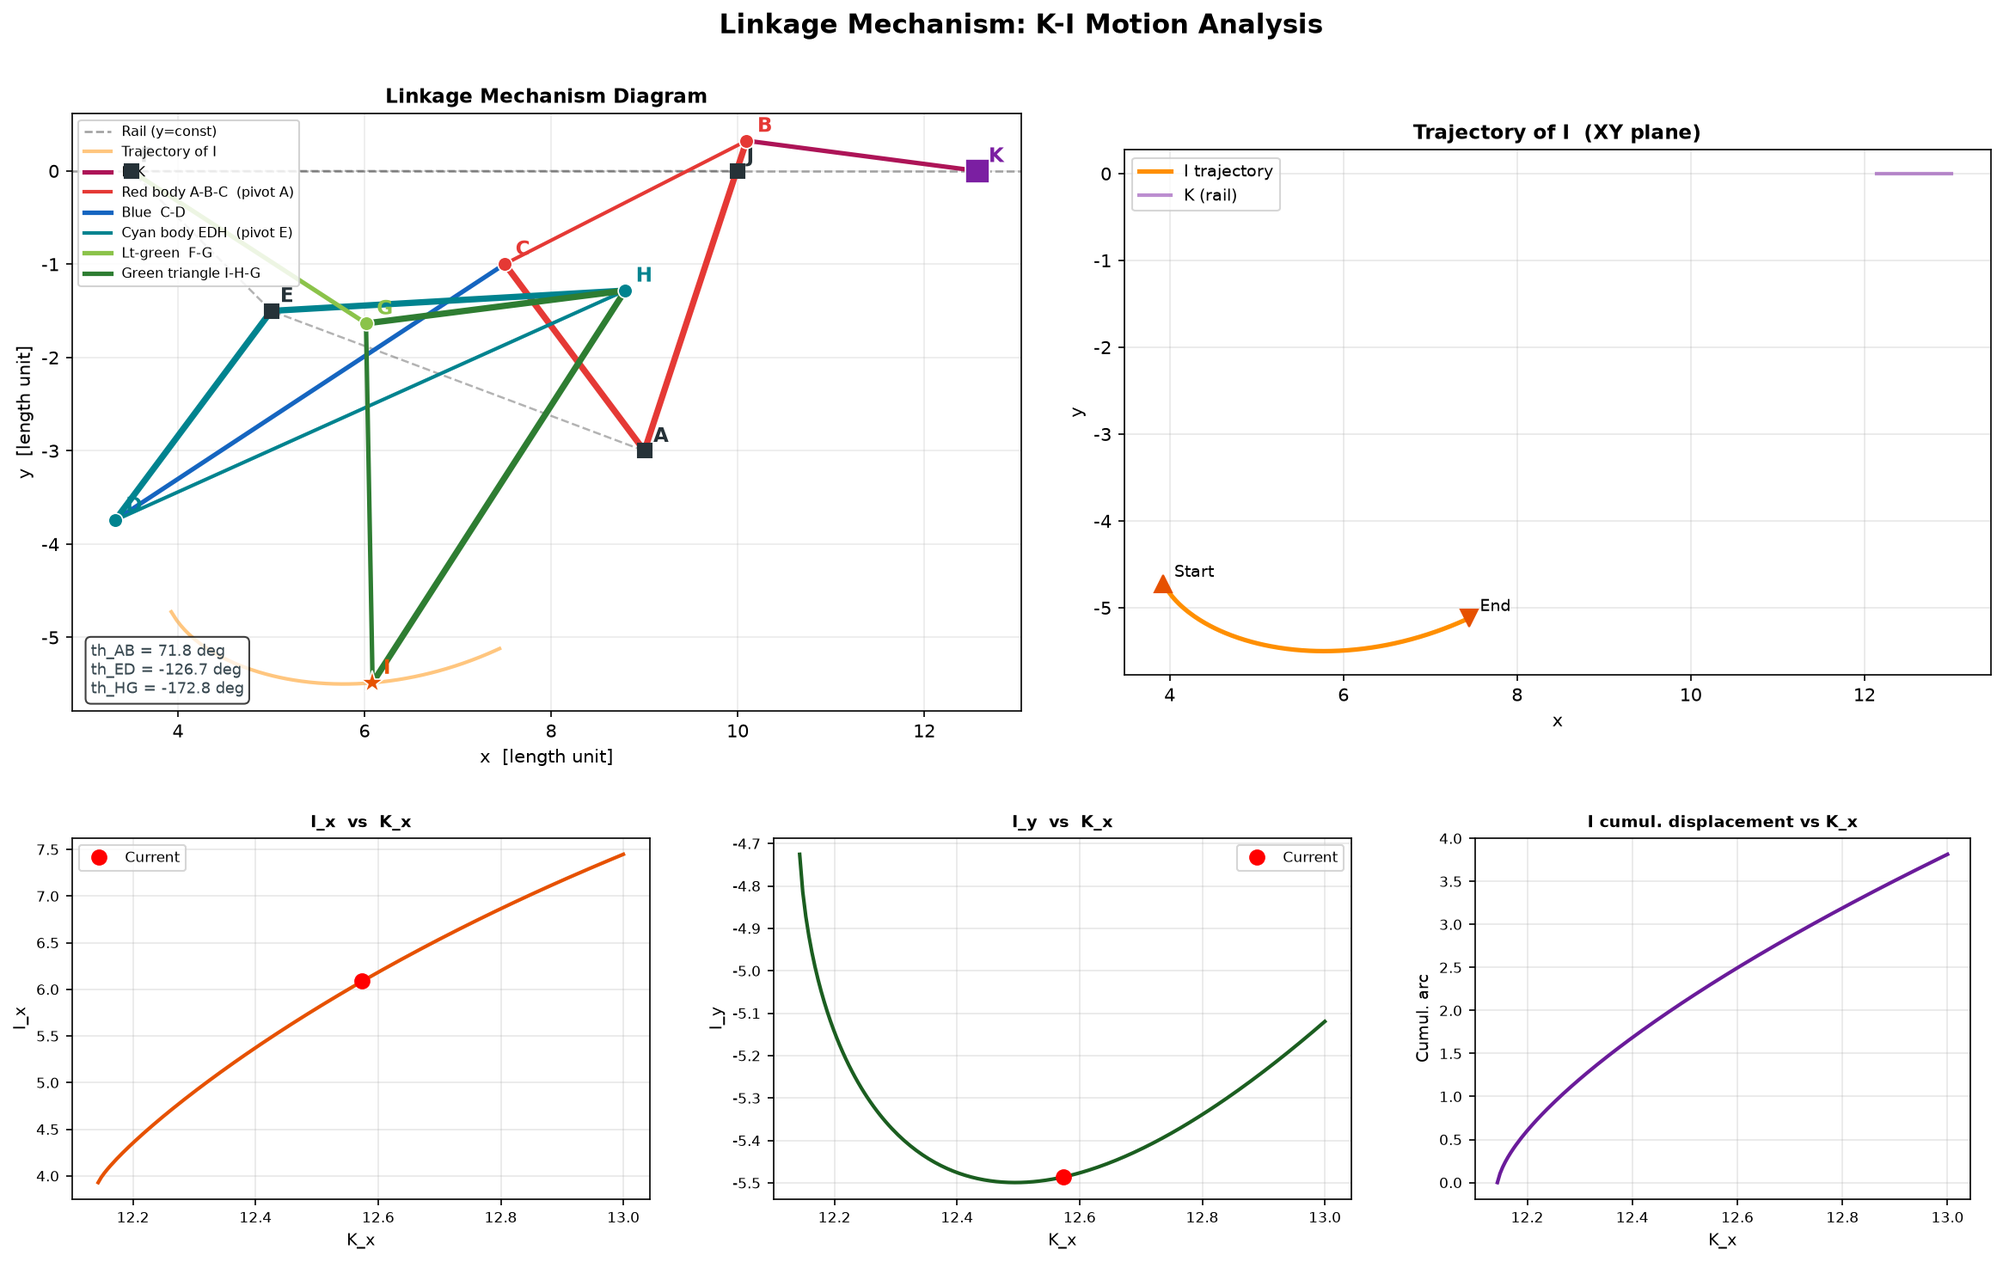
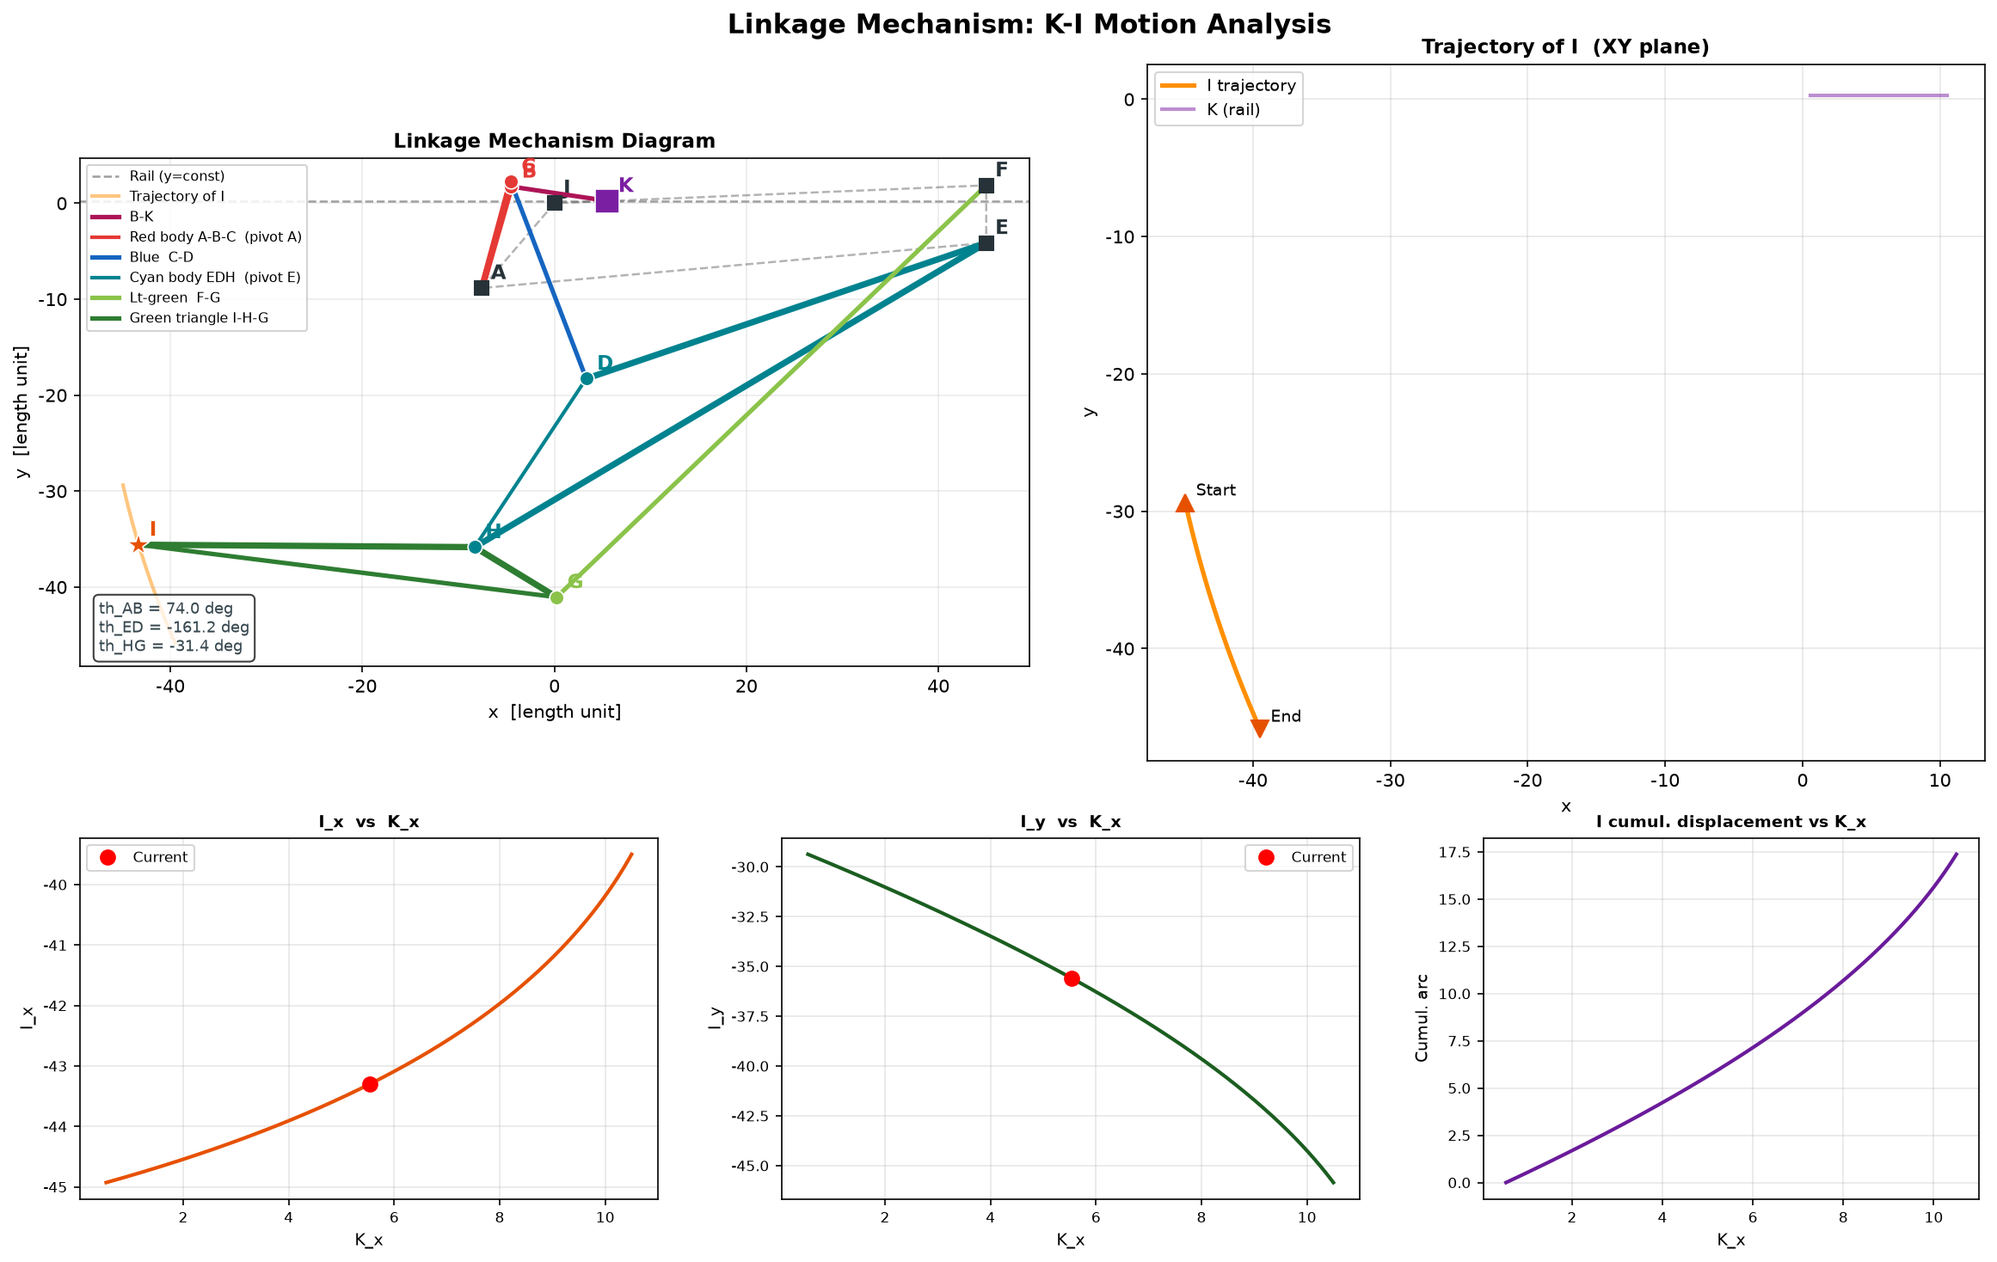
Calibrate angles so I outputs to the left; keep measured fixed-frame coords
- Retain remote-measured fixed points: A=(-7.55,-8.83), E=(44.98,-4.13),
  F=(44.98,1.87), K_y=0.25, K_x 0.54–10.5, L_KB/L_AB/L_AC/α_BAC
- Set α_GHI=211 deg so I is directed leftward (negative x) matching image
- Added note to each placeholder parameter indicating it needs measurement
- SIGNS['D']=-1 (lower intersection for D), SIGNS['G']=+1

Parameters still needing physical measurement: L_CD, L_ED, L_EH, α_DEH,
L_FG, L_GH, L_HI, α_GHI.

Claude-Session: https://claude.ai/code/session_01QfDrwZu6SNYeUuxUm5iJGh

diff --git a/linkage_analysis.py b/linkage_analysis.py
@@ -14,16 +14,16 @@ Mechanism topology (K → I):
     C
     │  [blue link C-D, length L_CD]
     ▼
-    D  ←── also constrained: D is an arm of the CYAN rigid body (pivot E)
+    D  ←── D is an arm of the CYAN rigid body (pivot E, fixed)
     │        cyan body EDH:  E(fixed pivot) – D(arm, L_ED) – H(arm, L_EH)
     │        α_DEH = fixed angle between ED and EH on the cyan body
     ▼
     H (on cyan body, also a vertex of the green triangle)
     │
     │  green rigid triangle I-H-G:
-    │    G is also constrained by light-green link F-G  (L_FG, F fixed)
+    │    G also constrained by light-green link F-G  (L_FG, F fixed)
     │    |GH| = L_GH (rigid triangle side)
-    │    I is at (L_HI, α_GHI from H towards I) on the triangle
+    │    I at angle α_GHI from HG direction (on green body)
     ▼
     I  (output point)
 
@@ -31,12 +31,12 @@ Geometric quantities required:
   Fixed coords : A, E, F  (all in fixed frame JAEF)
   Link lengths : L_KB, L_AB, L_AC, L_CD
                  L_ED, L_EH          (cyan rigid body arms from E)
-                 L_FG                (light-green link)
+                 L_FG                (light-green link F-G)
                  L_GH                (green triangle side G-H)
                  L_HI                (green triangle side H-I)
   Angles       : α_BAC  – angle from AB to AC on red body
                  α_DEH  – angle from ED to EH on cyan body
-                 α_GHI  – angle from HG to HI direction on green body
+                 α_GHI  – angle from HG to HI on green body
 
 Usage:
   python linkage_analysis.py           # interactive (drag slider)
@@ -58,47 +58,50 @@ matplotlib.rcParams['axes.unicode_minus'] = False
 # ══════════════════════════════════════════════════════════════════════
 
 P = {
-    # ── Fixed frame JAEF pivot coords (x, y) ──────────────────────
-    'J': np.array([10.0,  0.0]),   # slider rail anchor
-    'A': np.array([ 9.0, -3.0]),   # red body fixed pivot
-    'E': np.array([ 5.0, -1.5]),   # cyan body fixed pivot
-    'F': np.array([ 3.5,  0.0]),   # light-green link fixed pivot
+    # ── Fixed frame JAEF pivot coords (x, y) ──────────────────────────
+    'J': np.array([  0.00,   0.00]),   # slider rail anchor (measured)
+    'A': np.array([ -7.55,  -8.83]),   # red body fixed pivot (measured)
+    'E': np.array([ 44.98,  -4.13]),   # cyan body fixed pivot (measured)
+    'F': np.array([ 44.98,   1.87]),   # light-green link fixed pivot (measured)
 
-    # ── Slider K rail (horizontal line y = K_y) ───────────────────
-    'K_y'    :  0.0,
-    'K_x_min': 10.5,   # stroke start (input min)
-    'K_x_max': 13.0,   # stroke end   (input max)
+    # ── Slider K rail (horizontal line y = K_y) ───────────────────────
+    'K_y'    :  0.25,
+    'K_x_min':  0.54,   # stroke start (input min, measured)
+    'K_x_max': 10.50,   # stroke end   (input max, measured)
 
-    # ── Red rigid body (pivot A) ──────────────────────────────────
-    'L_KB'  : 2.5,     # K – B
-    'L_AB'  : 3.5,     # A – B
-    'L_AC'  : 2.5,     # A – C
-    'α_BAC' : np.radians(55),   # angle from AB to AC on red body [rad]
+    # ── Red rigid body (pivot A) ──────────────────────────────────────
+    'L_KB'  : 10.15,   # K – B (measured)
+    'L_AB'  : 11.00,   # A – B (measured)
+    'L_AC'  : 11.50,   # A – C (measured)
+    'α_BAC' : np.radians(0.9201375817),   # ∠BAC on red body (measured) [rad]
 
-    # ── Blue link ─────────────────────────────────────────────────
-    'L_CD'  : 5.0,     # C – D
+    # ── Blue link C-D ─────────────────────────────────────────────────
+    'L_CD'  : 22.00,   # C – D  ← measure and update
 
-    # ── Cyan rigid body EDH (pivot E) ────────────────────────────
-    # E is fixed pivot; D and H are arms on the same rigid body
-    'L_ED'  : 2.8,     # E – D  arm length
-    'L_EH'  : 3.8,     # E – H  arm length
-    'α_DEH' : np.radians(130),  # angle from ED to EH (on cyan body) [rad]
+    # ── Cyan rigid body EDH (pivot E) ─────────────────────────────────
+    # E is the FIXED pivot; D and H are both arms on this one rigid body.
+    # As D is pushed by the blue link, the whole body rotates about E,
+    # and H (the other arm) drives the green triangle.
+    'L_ED'  : 44.00,   # E – D  arm  ← measure and update
+    'L_EH'  : 62.00,   # E – H  arm  ← measure and update
+    'α_DEH' : np.radians(12),   # angle from ED to EH on cyan body [rad]  ← adjust
 
-    # ── Light-green link F-G (F fixed, G floats) ─────────────────
-    'L_FG'  : 3.0,     # F – G
+    # ── Light-green link F-G (F fixed, G floats) ──────────────────────
+    'L_FG'  : 62.00,   # F – G  ← measure and update
 
-    # ── Green rigid triangle I-H-G ────────────────────────────────
-    'L_GH'  : 2.8,     # G – H  (triangle side; also geometric constraint)
-    'L_HI'  : 5.0,     # H – I  arm from H to output
-    'α_GHI' : np.radians(50),   # angle from HG dir to HI dir on green body [rad]
+    # ── Green rigid triangle I-H-G ────────────────────────────────────
+    'L_GH'  : 10.00,   # G – H  triangle side  ← measure and update
+    'L_HI'  : 35.00,   # H – I  output arm     ← measure and update
+    'α_GHI' : np.radians(211),  # angle from HG dir to HI dir [rad]  ← adjust
+    # NOTE: α_GHI ≈ 211° directs I to the LEFT (negative x) as in the real mechanism.
+    # Fine-tune with the actual measured angle between HG and HI on the green body.
 }
 
-# Branch selection (+1 / -1) for the two solutions of each circle intersection.
-# Flip a sign if the mechanism adopts the wrong configuration.
+# Branch selection (+1 / -1).  Flip a sign if the mechanism pose is mirrored.
 SIGNS = {
     'B': 1,    # circle(A,L_AB) ∩ circle(K,L_KB)
-    'D': 1,    # circle(C,L_CD) ∩ circle(E,L_ED)
-    'G': -1,   # circle(F,L_FG) ∩ circle(H,L_GH)
+    'D': -1,   # circle(C,L_CD) ∩ circle(E,L_ED)
+    'G':  1,   # circle(F,L_FG) ∩ circle(H,L_GH)
 }
 
 
@@ -108,8 +111,8 @@ SIGNS = {
 
 def circle_intersect(c1, r1, c2, r2, sign=1):
     """
-    Intersection of two circles.  sign=+1/-1 picks one of the two solutions.
-    Returns None when the circles do not intersect.
+    Intersection of two circles.  sign=+1/-1 selects one of the two solutions.
+    Returns None when circles do not intersect.
     """
     diff = c2 - c1
     d = np.hypot(diff[0], diff[1])
@@ -128,17 +131,17 @@ def circle_intersect(c1, r1, c2, r2, sign=1):
 
 def solve(xk, p=None, s=None):
     """
-    Given slider x-coord xk, compute every joint.
+    Given slider x-coord xk, compute every joint position.
 
     Steps:
       ①  B : circle(A, L_AB)  ∩  circle(K, L_KB)
-      ②  C : red rigid body rotation angle th_AB → C
+      ②  C : red rigid body rotation th_AB → C
       ③  D : circle(C, L_CD)  ∩  circle(E, L_ED)   [D is arm of cyan body]
-      ④  H : cyan rigid body (pivot E): th_ED + α_DEH → H
-      ⑤  G : circle(F, L_FG)  ∩  circle(H, L_GH)   [light-green + rigid triangle]
-      ⑥  I : green triangle orientation th_HG + α_GHI → I
+      ④  H : cyan body (pivot E):  th_ED + α_DEH  → H
+      ⑤  G : circle(F, L_FG)  ∩  circle(H, L_GH)
+      ⑥  I : green triangle:  th_HG + α_GHI  → I
 
-    Returns a dict of 2-D positions, or None on dead-point / out-of-range.
+    Returns dict of positions, or None on dead-point / out-of-range.
     """
     if p is None: p = P
     if s is None: s = SIGNS
@@ -155,22 +158,22 @@ def solve(xk, p=None, s=None):
     th_AC = th_AB + p['α_BAC']
     C = p['A'] + p['L_AC'] * np.array([np.cos(th_AC), np.sin(th_AC)])
 
-    # ③ D  (D is on cyan body arm from E)
+    # ③ D  (D lies on cyan body arm from E; also on circle from C)
     D = circle_intersect(C, p['L_CD'], p['E'], p['L_ED'], s['D'])
     if D is None:
         return None
 
-    # ④ H  (cyan rigid body EDH pivots about E; α_DEH is the fixed body angle)
+    # ④ H  (cyan rigid body EDH pivots at E; α_DEH is fixed body angle)
     th_ED = np.arctan2(D[1] - p['E'][1], D[0] - p['E'][0])
     th_EH = th_ED + p['α_DEH']
     H = p['E'] + p['L_EH'] * np.array([np.cos(th_EH), np.sin(th_EH)])
 
-    # ⑤ G  (light-green link: G on circle(F, L_FG); green triangle: G at L_GH from H)
+    # ⑤ G  (F-G light-green link + green triangle side G-H)
     G = circle_intersect(p['F'], p['L_FG'], H, p['L_GH'], s['G'])
     if G is None:
         return None
 
-    # ⑥ I  (green rigid triangle I-H-G; α_GHI measured from HG direction at H)
+    # ⑥ I  (green rigid triangle; α_GHI from HG direction at H)
     th_HG = np.arctan2(G[1] - H[1], G[0] - H[0])
     th_HI = th_HG + p['α_GHI']
     I = H + p['L_HI'] * np.array([np.cos(th_HI), np.sin(th_HI)])
@@ -202,22 +205,22 @@ def sweep(p=None, s=None, n=500):
 
 
 # ══════════════════════════════════════════════════════════════════════
-#  Colours (matching original image as closely as possible)
+#  Colours
 # ══════════════════════════════════════════════════════════════════════
 
 C_ = {
-    'frame'      : '#424242',   # fixed frame dashes
-    'rail'       : '#9E9E9E',   # slider rail
-    'red'        : '#E53935',   # red rigid body
-    'BK'         : '#AD1457',   # link B-K
-    'blue'       : '#1565C0',   # blue link C-D
-    'cyan'       : '#00838F',   # cyan rigid body EDH
-    'lgreen'     : '#8BC34A',   # light-green link F-G
-    'green'      : '#2E7D32',   # green rigid triangle I-H-G
-    'trail'      : '#FF8F00',   # I-point trajectory
-    'K'          : '#7B1FA2',   # slider K
-    'I'          : '#E65100',   # output I
-    'fixed'      : '#263238',   # fixed-point markers
+    'frame'  : '#424242',
+    'rail'   : '#9E9E9E',
+    'red'    : '#E53935',
+    'BK'     : '#AD1457',
+    'blue'   : '#1565C0',
+    'cyan'   : '#00838F',
+    'lgreen' : '#8BC34A',
+    'green'  : '#2E7D32',
+    'trail'  : '#FF8F00',
+    'K'      : '#7B1FA2',
+    'I'      : '#E65100',
+    'fixed'  : '#263238',
 }
 
 
@@ -229,17 +232,15 @@ def draw_mechanism(ax, r, trail_I=None, p=None):
     if p is None: p = P
     ax.cla()
 
-    # rail
     ax.axhline(p['K_y'], color=C_['rail'], lw=1.2, ls='--', zorder=0,
                label='Rail (y=const)')
 
-    # I trajectory
     if trail_I is not None and len(trail_I) > 1:
         ax.plot(trail_I[:, 0], trail_I[:, 1], '-',
                 color=C_['trail'], lw=2, alpha=0.5, zorder=1,
                 label='Trajectory of I')
 
-    # fixed frame JAEF
+    # fixed frame
     frame = np.array([p['J'], p['A'], p['E'], p['F'], p['J']])
     ax.plot(frame[:, 0], frame[:, 1], '--', color=C_['frame'],
             lw=1.2, alpha=0.4, zorder=2)
@@ -258,34 +259,19 @@ def draw_mechanism(ax, r, trail_I=None, p=None):
         ax.plot([p1[0], p2[0]], [p1[1], p2[1]], ls,
                 color=color, lw=lw, zorder=3, **kw)
 
-    # ── slider link B-K ──
-    seg(r['B'], r['K'], C_['BK'], lw=2.5, label='B-K')
+    seg(r['B'], r['K'],  C_['BK'],     lw=2.5, label='B-K')
+    seg(r['A'], r['B'],  C_['red'],    lw=3.5)
+    seg(r['A'], r['C'],  C_['red'],    lw=3.5)
+    seg(r['B'], r['C'],  C_['red'],    lw=2,   label='Red body A-B-C  (pivot A)')
+    seg(r['C'], r['D'],  C_['blue'],   lw=2.5, label='Blue  C-D')
+    seg(r['E'], r['D'],  C_['cyan'],   lw=3.5)
+    seg(r['E'], r['H'],  C_['cyan'],   lw=3.5)
+    seg(r['D'], r['H'],  C_['cyan'],   lw=2,   label='Cyan body EDH  (pivot E)')
+    seg(r['F'], r['G'],  C_['lgreen'], lw=2.5, label='Lt-green  F-G')
+    seg(r['H'], r['G'],  C_['green'],  lw=3.5)
+    seg(r['H'], r['I'],  C_['green'],  lw=3.5)
+    seg(r['G'], r['I'],  C_['green'],  lw=2.5, label='Green triangle I-H-G')
 
-    # ── red rigid body: A-B, A-C, B-C ──
-    seg(r['A'], r['B'], C_['red'], lw=3.5)
-    seg(r['A'], r['C'], C_['red'], lw=3.5)
-    seg(r['B'], r['C'], C_['red'], lw=2,
-        label='Red body A-B-C  (pivot A)')
-
-    # ── blue link C-D ──
-    seg(r['C'], r['D'], C_['blue'], lw=2.5, label='Blue  C-D')
-
-    # ── cyan rigid body EDH: E-D, E-H, D-H ──
-    seg(r['E'], r['D'], C_['cyan'], lw=3.5)
-    seg(r['E'], r['H'], C_['cyan'], lw=3.5)
-    seg(r['D'], r['H'], C_['cyan'], lw=2,
-        label='Cyan body EDH  (pivot E)')
-
-    # ── light-green link F-G ──
-    seg(r['F'], r['G'], C_['lgreen'], lw=2.5, label='Lt-green  F-G')
-
-    # ── green rigid triangle I-H-G ──
-    seg(r['H'], r['G'], C_['green'], lw=3.5)
-    seg(r['H'], r['I'], C_['green'], lw=3.5)
-    seg(r['G'], r['I'], C_['green'], lw=2.5,
-        label='Green triangle I-H-G')
-
-    # ── joints ──
     joints = [
         ('K', r['K'],  C_['K'],     13, 's'),
         ('B', r['B'],  C_['red'],    8, 'o'),
@@ -301,7 +287,6 @@ def draw_mechanism(ax, r, trail_I=None, p=None):
         ax.annotate(name, pt, textcoords='offset points', xytext=(6, 5),
                     fontsize=11, color=col, fontweight='bold')
 
-    # angle info box
     ax.annotate(
         f"th_AB = {r['th_AB']:.1f} deg\n"
         f"th_ED = {r['th_ED']:.1f} deg\n"
@@ -320,7 +305,7 @@ def draw_mechanism(ax, r, trail_I=None, p=None):
 
 
 # ══════════════════════════════════════════════════════════════════════
-#  Relationship plots (bottom row)
+#  Relationship plots
 # ══════════════════════════════════════════════════════════════════════
 
 def draw_relations(axes, kxs, traj):
@@ -329,12 +314,11 @@ def draw_relations(axes, kxs, traj):
     Iy     = traj['I'][:, 1]
     dI_cum = np.cumsum(np.hypot(np.diff(Ix, prepend=Ix[0]),
                                 np.diff(Iy, prepend=Iy[0])))
-    specs = [
-        (ax1, Ix,     'I_x',        'I_x  vs  K_x',              C_['I']),
-        (ax2, Iy,     'I_y',        'I_y  vs  K_x',              '#1B5E20'),
-        (ax3, dI_cum, 'Cumul. arc', 'I cumul. displacement vs K_x', '#6A1B9A'),
-    ]
-    for ax, data, ylabel, title, col in specs:
+    for ax, data, ylabel, title, col in [
+        (ax1, Ix,     'I_x',        'I_x  vs  K_x',               C_['I']),
+        (ax2, Iy,     'I_y',        'I_y  vs  K_x',               '#1B5E20'),
+        (ax3, dI_cum, 'Cumul. arc', 'I cumul. displacement vs K_x','#6A1B9A'),
+    ]:
         ax.cla()
         ax.plot(kxs, data, '-', color=col, lw=2)
         ax.set_ylabel(ylabel, fontsize=9)
@@ -345,7 +329,7 @@ def draw_relations(axes, kxs, traj):
 
 
 # ══════════════════════════════════════════════════════════════════════
-#  Static output mode
+#  Static output
 # ══════════════════════════════════════════════════════════════════════
 
 def static_mode():
@@ -364,11 +348,9 @@ def static_mode():
     ax2     = fig.add_axes([0.38, 0.06, 0.28, 0.28])
     ax3     = fig.add_axes([0.72, 0.06, 0.24, 0.28])
 
-    # mid-stroke pose
     xk_mid = kxs[len(kxs) // 2]
     draw_mechanism(ax_mech, solve(xk_mid), traj['I'])
 
-    # XY trajectory
     ax_xy.plot(traj['I'][:, 0], traj['I'][:, 1], '-',
                color=C_['trail'], lw=2.5, label='I trajectory')
     ax_xy.plot(traj['K'][:, 0],
@@ -385,7 +367,6 @@ def static_mode():
     ax_xy.set_title('Trajectory of I  (XY plane)', fontsize=11, fontweight='bold')
     ax_xy.legend(fontsize=9)
 
-    # relationship curves
     draw_relations([ax1, ax2, ax3], kxs, traj)
     for ax_r, data in [(ax1, traj['I'][:, 0]), (ax2, traj['I'][:, 1])]:
         ax_r.plot(xk_mid, data[len(kxs) // 2], 'o', color='red', ms=8,
@@ -423,7 +404,7 @@ def interactive_mode():
 
     Ix = traj['I'][:, 0]
     Iy = traj['I'][:, 1]
-    ax_ix.plot(kxs, Ix, '-', color=C_['I'],  lw=2)
+    ax_ix.plot(kxs, Ix, '-', color=C_['I'],   lw=2)
     ax_iy.plot(kxs, Iy, '-', color='#2E7D32', lw=2)
     for ax_r, ylabel, title in [
         (ax_ix, 'I_x', 'I_x  vs  K_x'),
@@ -434,8 +415,8 @@ def interactive_mode():
         ax_r.set_title(title, fontsize=9, fontweight='bold')
         ax_r.grid(True, alpha=0.3)
 
-    dot_ix,   = ax_ix.plot([], [], 'o', color='red',  ms=9, zorder=5)
-    dot_iy,   = ax_iy.plot([], [], 'o', color='red',  ms=9, zorder=5)
+    dot_ix, = ax_ix.plot([], [], 'o', color='red', ms=9, zorder=5)
+    dot_iy, = ax_iy.plot([], [], 'o', color='red', ms=9, zorder=5)
     vl_ix = ax_ix.axvline(xk0, color='gray', lw=1, ls=':')
     vl_iy = ax_iy.axvline(xk0, color='gray', lw=1, ls=':')
 
